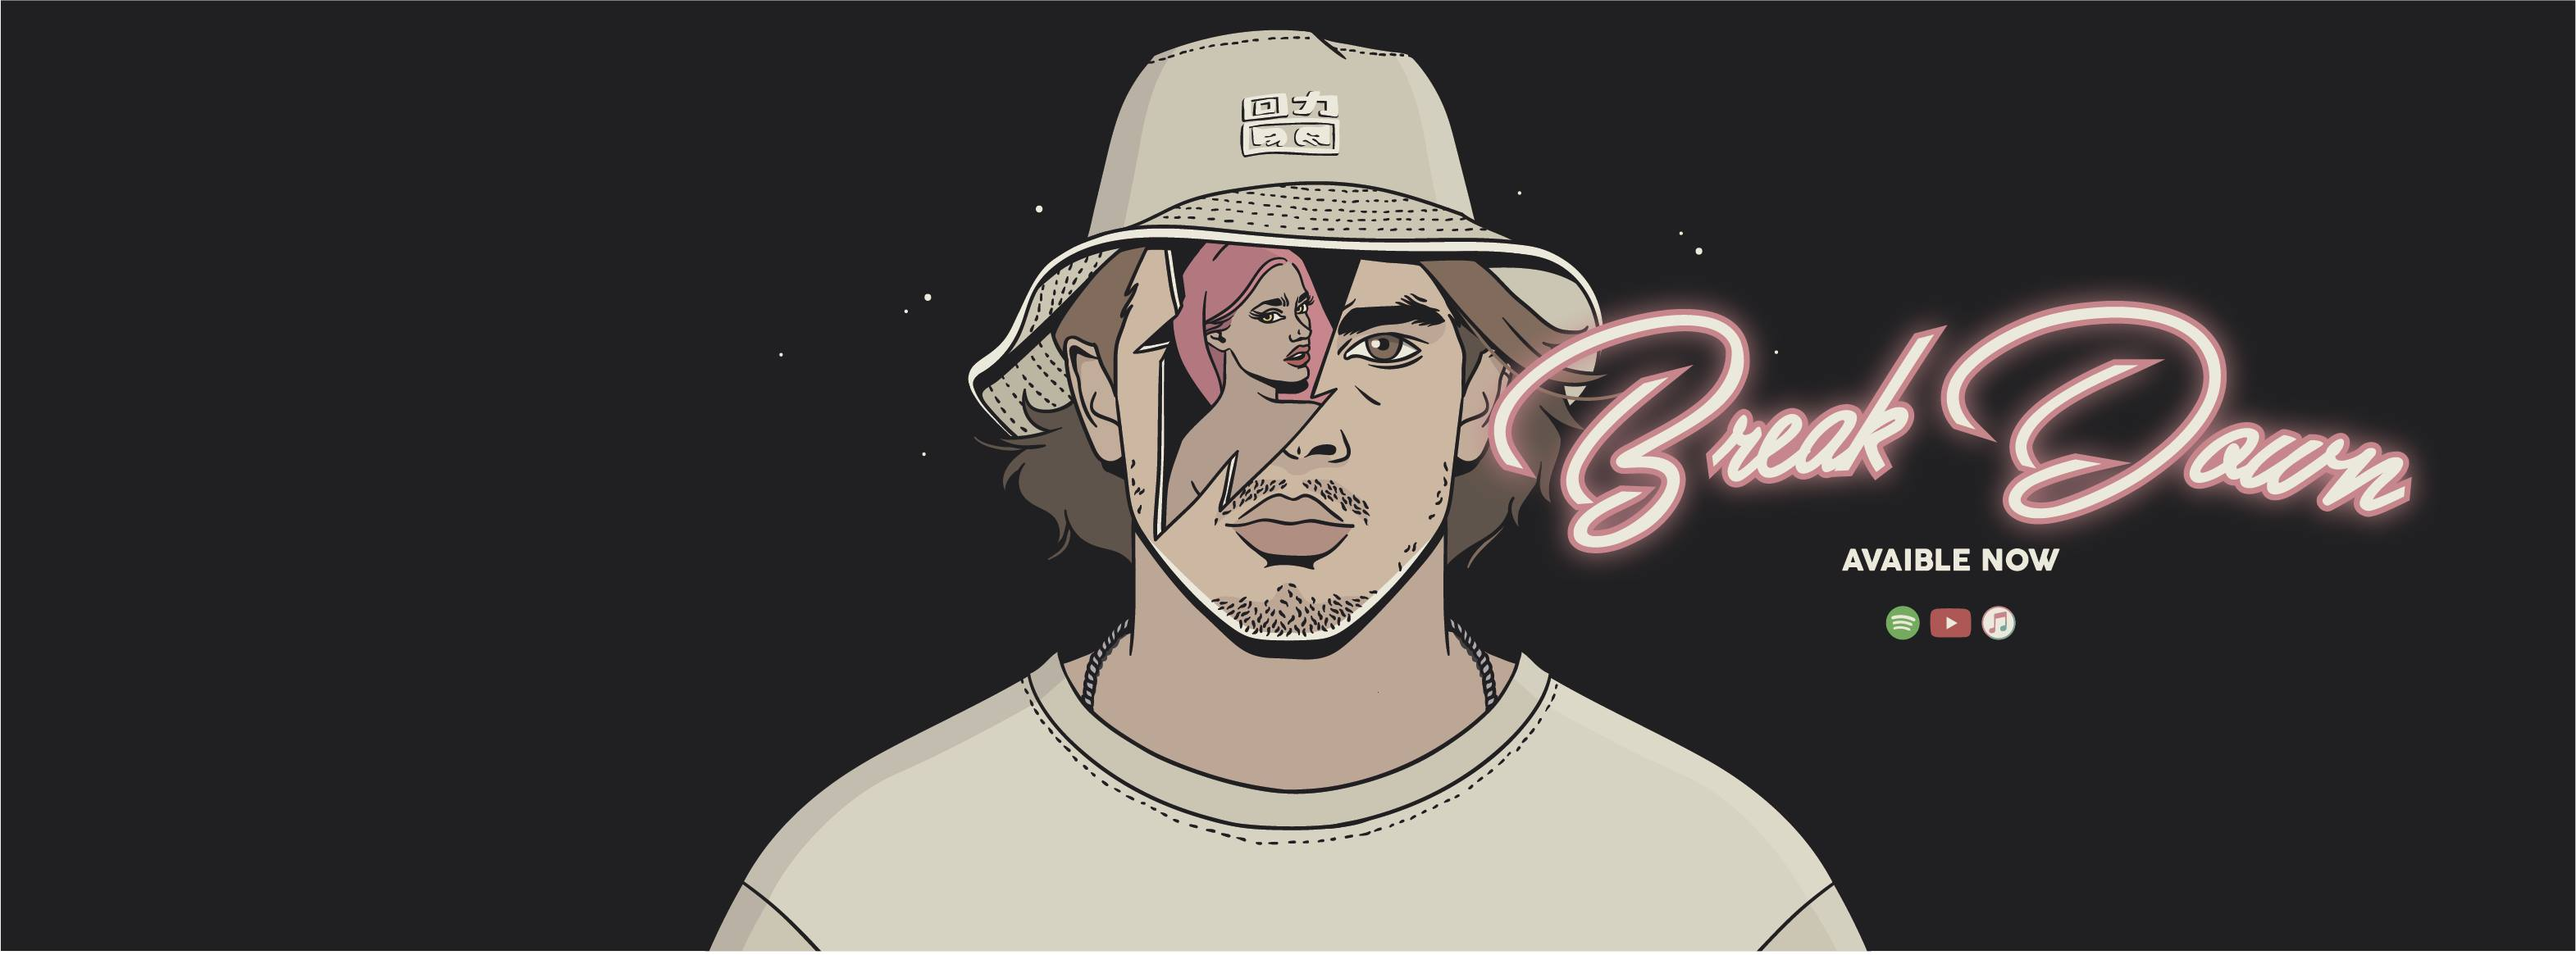
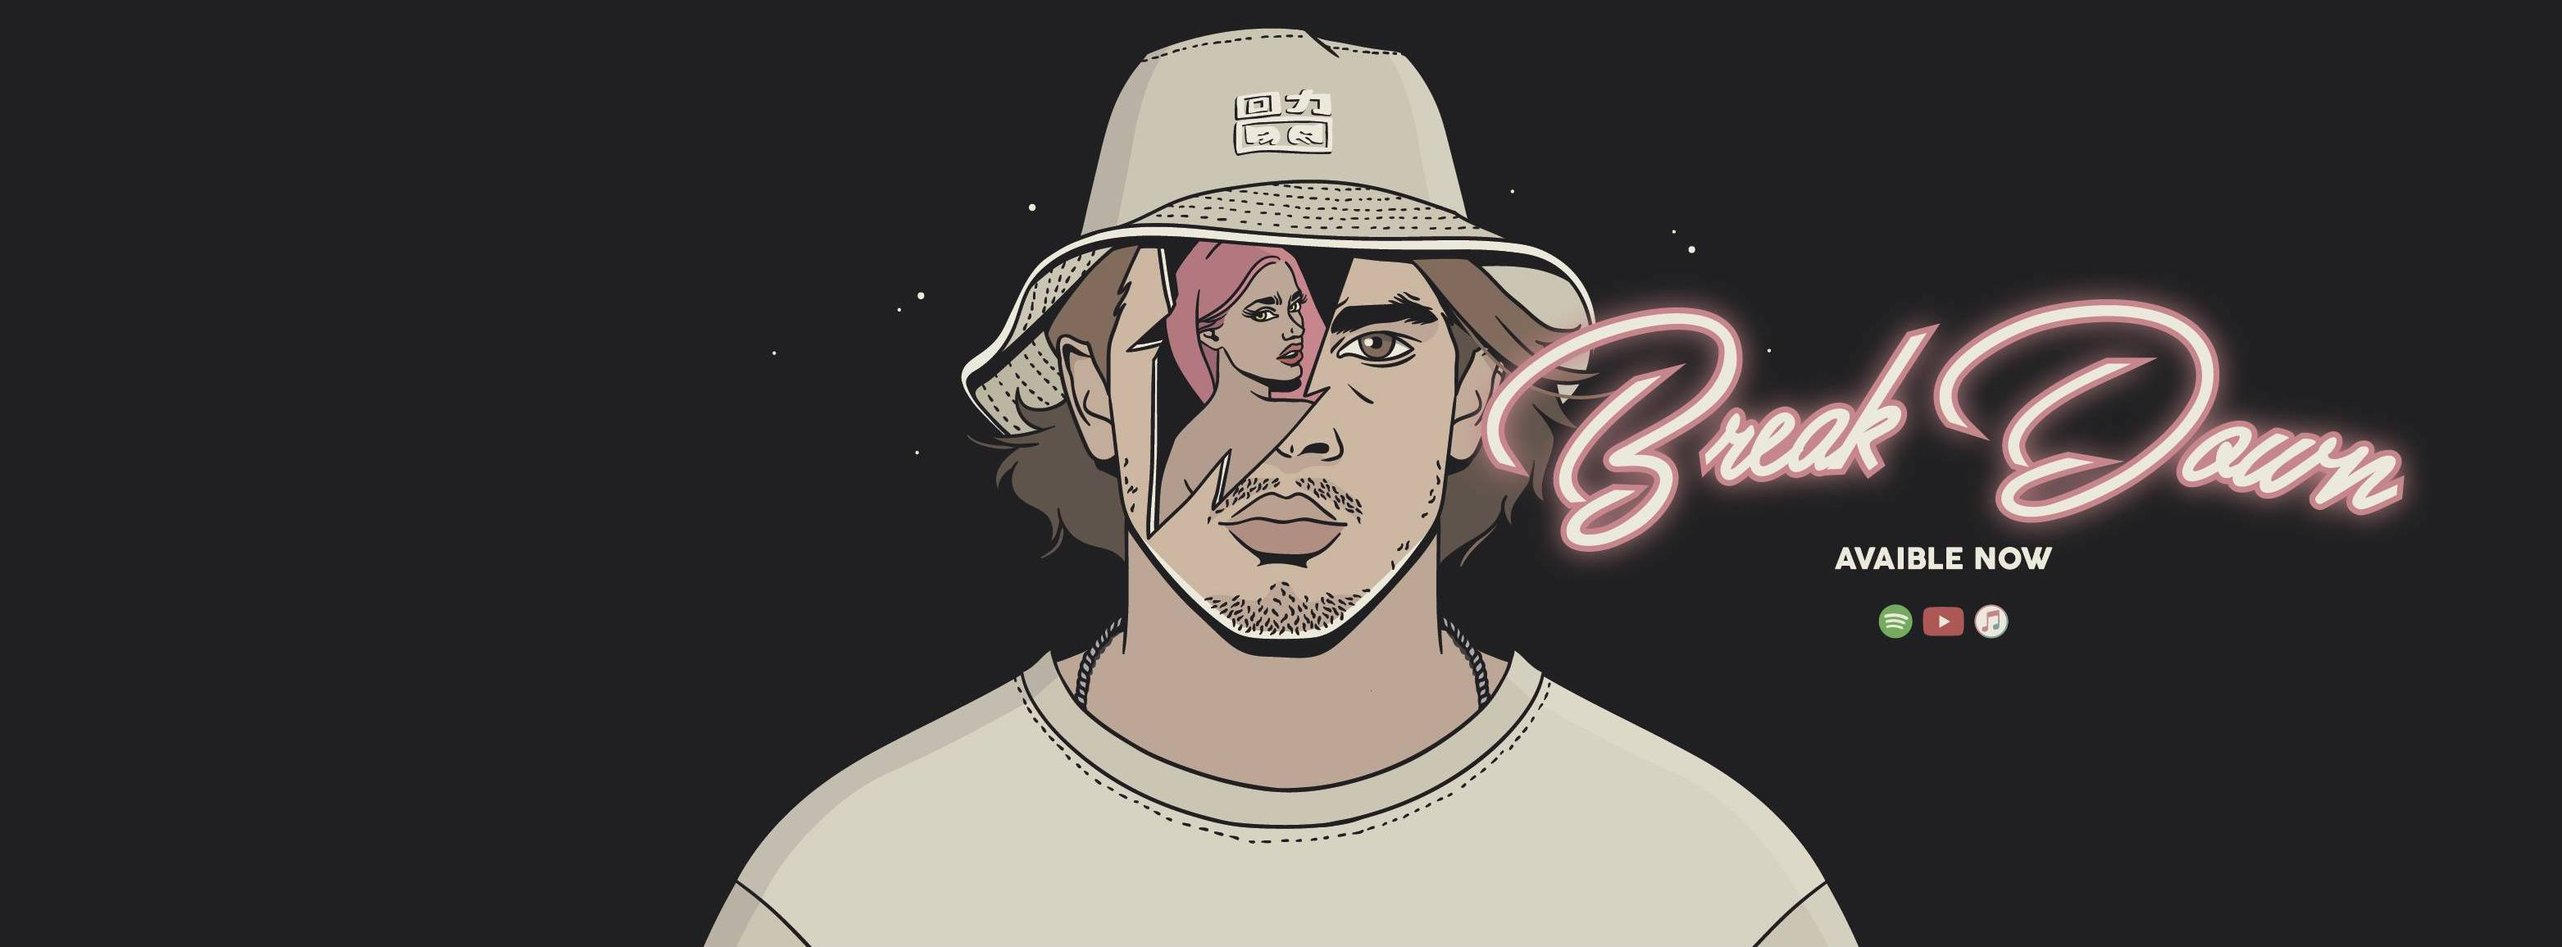
fixed some font sizes and margins

diff --git a/index.html b/index.html
@@ -18,8 +18,6 @@
 
   <meta name="viewport" content="width=device-width, initial-scale=1">
 
-  <!-- JavaScript -->
-
 </head>
 
 <body>
@@ -61,23 +59,17 @@
         <div class="social-icons">
           <a class="facebook" href="https://www.google.com" target="_blank"><img width="35px" src="images/facebook-icon.png" alt=""></a>
           <a href="https://www.google.com" target="_blank"><img width="35px" src="images/instagram.png" alt=""></a>
-          <a href="https://www.google.com" target="_blank"><img width="35px" src="images/youtube.png" alt=""></a>
           <a href="https://www.google.com" target="_blank"><img width="35px" src="images/spotify.png" alt=""></a>
+          <a href="https://www.google.com" target="_blank"><img width="35px" src="images/youtube.png" alt=""></a>
         </div>
       </div>
     </section>
-
-    <!-- <div class="social-icons">
-  <img width="35px"src="images/facebook-icon.png" alt="">
-  <img width="35px"src="images/instagram.png" alt="">
-  <img width="35px"src="images/youtube.png" alt="">
-</div> -->
 
     <!-- Video Section -->
     <section id="music">
       <div class="videos-container">
         <h1>LATEST VIDEO</h1>
-        <div id="carouselExampleIndicators" class="carousel slide" data-ride="carousel">
+        <div>
           <iframe width="600px" height="400px" src="https://www.youtube.com/embed/h-q5mcMLyVw" frameborder="0" allow="accelerometer; autoplay; encrypted-media; gyroscope; picture-in-picture" allowfullscreen></iframe>
         </div>
       </div>
@@ -96,20 +88,20 @@
         <div class="tour-container">
           <h1>UPCOMING DATES</h1>
           <div class="date date-one">
-            <h2>7TH APRIL 2020</h2>
-            <h3>TI MARIA | TAVIRA, PORTUGAL</h3>
+            <h3>7TH APRIL 2020</h3>
+            <h4>TI MARIA | TAVIRA, PORTUGAL</h4>
           </div>
           <div class="date date-two">
-            <h2>5TH JULY 2020</h2>
-            <h3>SUPER BOCK SUPER ROCK | LISBON, PORTUGAL</h3>
+            <h3>5TH JULY 2020</h3>
+            <h4>SUPER BOCK SUPER ROCK | LISBON, PORTUGAL</h4>
           </div>
           <div class="date date-three">
-            <h2>10TH AUGUST 2020</h2>
-            <h3>NOS ALIVE | LISBON, PORTUGAL</h3>
+            <h3>10TH AUGUST 2020</h3>
+            <h4>NOS ALIVE | LISBON, PORTUGAL</h4>
           </div>
           <div class="date date-four">
-            <h2>15TH APRIL 2020</h2>
-            <h3>FESTIVAL DO MARISCO | OLHÃO, PORTUGAL</h3>
+            <h3>15TH APRIL 2020</h3>
+            <h4>FESTIVAL DO MARISCO | OLHÃO, PORTUGAL</h4>
           </div>
         </div>
       </div>
@@ -122,18 +114,11 @@
       </div>
     </section>
 
-    <!-- Social Media Icons -->
-    <section id="contact">
+    <!-- Footer -->
       <footer id="footer">
-        <!-- <div class="social-media">
-        <a href="#"><i class="social-media fab fa-twitter"></i></a>
-        <a href="#"><i class="social-media fab fa-facebook-f"></i></a>
-        <a href="#"><i class="social-media fab fa-instagram"></i></a>
-        <a href="#"><i class="social-media fas fa-envelope"></i></a>
-      </div> -->
         <p>© Copyright 2020 Miguel Dias</p>
       </footer>
-    </section>
+
   </div>
   <script src="https://ajax.googleapis.com/ajax/libs/jquery/3.4.1/jquery.min.js"></script>
   <script src="https://code.jquery.com/jquery-3.2.1.slim.min.js" integrity="sha384-KJ3o2DKtIkvYIK3UENzmM7KCkRr/rE9/Qpg6aAZGJwFDMVNA/GpGFF93hXpG5KkN" crossorigin="anonymous"></script>
@@ -141,41 +126,4 @@
   <script src="https://maxcdn.bootstrapcdn.com/bootstrap/4.0.0/js/bootstrap.min.js" integrity="sha384-JZR6Spejh4U02d8jOt6vLEHfe/JQGiRRSQQxSfFWpi1MquVdAyjUar5+76PVCmYl" crossorigin="anonymous"></script>
   <script src="index.js"></script>
 </body>
-
 </html>
-
-<!--
- <ol class="carousel-indicators">
-  <li data-target="#carouselExampleIndicators" data-slide-to="0" class="active"></li>
-  <li data-target="#carouselExampleIndicators" data-slide-to="1"></li>
-  <li data-target="#carouselExampleIndicators" data-slide-to="2"></li>
-</ol>
-<video width="500" height="340" poster="/images/w3schools_green.jpg" controls>
-  <source src="images/IMG_0979.MOV" type="video/mp4" href="https://youtube.com">
-</video> -->
-
-<!-- <div class="carousel-inner">
-  <div class="carousel-item active">
-    <img src="images/image.jpg" class="d-block w-50" alt="...">
-  </div>
-  <div class="carousel-item">
-    <img src="images/image.jpg" class="d-block w-50" alt="...">
-  </div>
-  <div class="carousel-item">
-    <img src="images/image.jpg" class="d-block w-50" alt="...">
-  </div>
-  <a class="carousel-control-prev" href="#carouselExampleIndicators" role="button" data-slide="prev">
-    <span class="carousel-control-prev-icon" aria-hidden="true"></span>
-    <span class="sr-only">Previous</span>
-  </a>
-  <a class="carousel-control-next" href="#carouselExampleIndicators" role="button" data-slide="next">
-    <span class="carousel-control-next-icon" aria-hidden="true"></span>
-    <span class="sr-only">Next</span>
-  </a>
-</div> -->
-
-<!-- <div class="social-media">
-  <img class="facebook-icon" src="images/facebook.png" alt="">
-  <img class="instagram-icon" src="images/instagram1.png" alt="">
-  <img class="spotify-icon" src="images/spotify.png" alt="">
-</div> -->

diff --git a/css/styles.css b/css/styles.css
@@ -4,15 +4,9 @@ body {
   letter-spacing: 0.1rem;
 }
 
-iframe {
-  padding-bottom: 6rem;
-}
-
-
 .container-fluid {
   padding: 0;
 }
-
 
 /*----- Navbar section -----*/
 .navbar {
@@ -36,29 +30,51 @@ a.navbar-brand {
 }
 
 .nav-link {
+  font-size: 1.3em;
   color: white !important;
 }
 
-a.nav-link:hover {
-  background-color: orange;
+.nav-item>a:hover{
+  color: orange!important;
 }
 
+/*----- Main Picture -------*/
 .image-container {
   display: grid;
   grid-template-columns: 2fr 1fr;
   justify-items: center;
 }
 
-/*----- Main image -----*/
 .image {
   width: 80%;
 }
 
-/*----- Social Media icons -----*/
-.social-media {
+.big-image {
+  margin: auto;
+  width: 100%;
+  margin-left: 5rem;
+}
+
+/*---- Social Media icons ----*/
+.social-icons {
   display: flex;
-  justify-content: flex-end;
-  /* flex-direction: column; */
+  flex-direction: column;
+  align-items: center;
+  align-self: center;
+  padding-left: 200px;
+}
+
+.social-icons>a {
+  margin: 0.5rem;
+}
+
+.social-icons>a:hover {
+  opacity: 0.5;
+}
+
+/*----- Video Section -------*/
+iframe {
+  padding-bottom: 6rem;
 }
 
 .videos-container {
@@ -71,17 +87,12 @@ a.nav-link:hover {
   font-weight: bold;
 }
 
-.videos-container>h4 {
-  margin-bottom: 0;
-  padding: 2rem;
-  padding-bottom: 5rem;
-}
-
+/*----- Second/Third Picture -------*/
 .image1>img {
   width: 100%;
 }
 
-/*--- Tour Section ---*/
+/*----- Tour Section -------*/
 .tour-schedule {
   color: white;
   text-align: center;
@@ -99,7 +110,7 @@ a.nav-link:hover {
   padding: 1rem;
 }
 
-.date>h2 {
+.date>h3 {
   font-weight: 700;
 }
 
@@ -107,54 +118,34 @@ a.nav-link:hover {
   padding-bottom: 5rem;
 }
 
+/*----- Footer -------*/
 #footer>p {
   padding: 10px;
   text-align: center;
   margin-bottom: 0px;
 }
 
-.social-media {
-  display: flex;
-  margin: 20px 10px;
-  justify-content: center;
-}
-
-.social-icons {
-  display: flex;
-  flex-direction: column;
-  align-items: center;
-  align-self: center;
-  padding-left: 200px;
-}
-
-.social-icons > a {
-  margin: 0.5rem;
-}
-
-
-.social-icons > a:hover {
-  opacity: 0.5;
-}
-
-.big-image {
-  margin: auto;
-  width: 100%;
-  margin-left: 5rem;
-}
-
 /* If the media is 600px or less do this: */
 @media screen and (max-width: 600px) {
+
+  /*----- Navbar section -----*/
   .nav-item {
     padding: 0;
   }
 
-  iframe{
-    width: 380px;
+  .nav {
+    height: 200%;
+  }
+
+  /*----- Video section -----*/
+  iframe {
+    width: 320px;
     height: 300px;
   }
 
-  .nav {
-    height: 100px;
+  /*----- First Image -----*/
+  .big-image {
+    margin-left: 0;
   }
 
   .image {
@@ -162,14 +153,27 @@ a.nav-link:hover {
     margin-left: 0;
   }
 
-  .big-image {
-    margin-left: 0;
+  /*----- Main Picture -------*/
+  .image-container {
+    display: grid;
+    grid-template-columns: 1fr;
+    justify-items: center;
   }
 
-  .w-50 {
-    width: 100% !important;
+  /*----- Social Icons -----*/
+  .social-icons>a {
+    width: 18px;
+    margin: 0.5rem 1rem;
   }
 
+  .social-icons {
+    flex-direction: row;
+    padding: 0;
+    margin-bottom: 1rem;
+    justify-self: baseline;
+  }
+
+  /*----- Tour Section -----*/
   .tour-schedule {
     display: flex;
     height: 1000px;
@@ -180,13 +184,4 @@ a.nav-link:hover {
     justify-content: center;
     align-self: center;
   }
-
-  .social-icons > a {
-    width: 18px;
-    margin: 0.5rem 0;
-  }
-  .social-icons {
-    padding: 0;
-  }
-
 }
